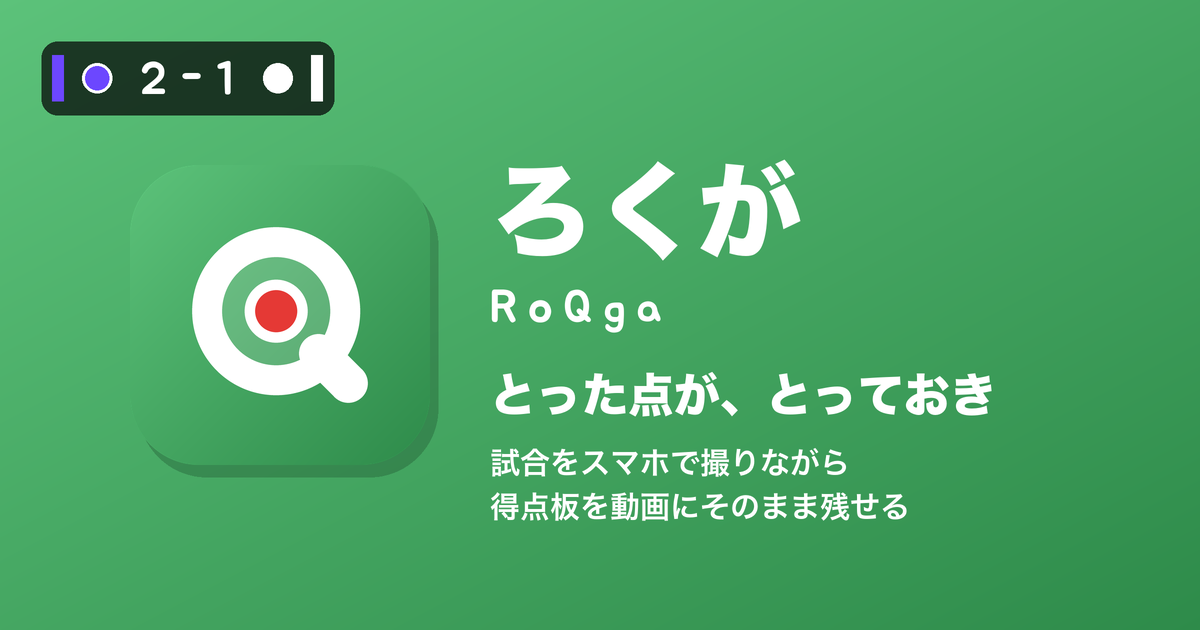
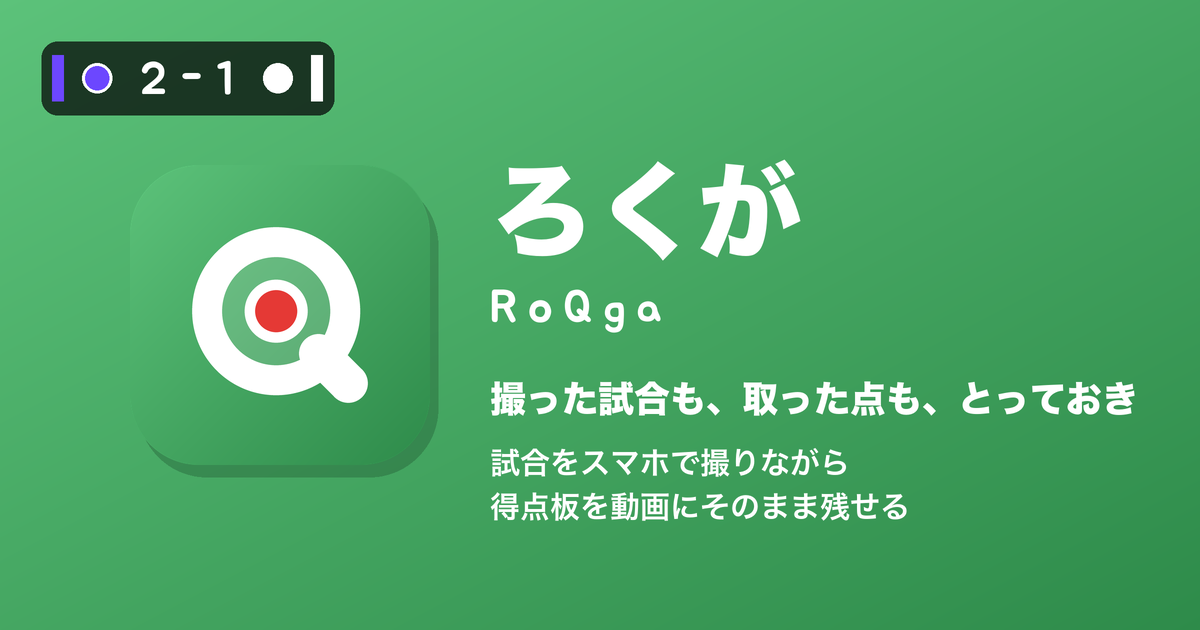
キャッチコピーを「撮った試合も、取った点も、とっておき」に

Changed region(s): [[0.4008, 0.573, 0.9558, 0.6635]]

diff --git a/index.html b/index.html
@@ -11,7 +11,7 @@
 <meta property="og:description" content="試合をスマホで撮りながら、得点板（チーム名とスコア）を動画にそのまま残せます">
 <meta property="og:url" content="https://katsuan.github.io/score-recorder/">
 <meta property="og:locale" content="ja_JP">
-<meta property="og:image" content="https://katsuan.github.io/score-recorder/ogp.png?v=20261021f">
+<meta property="og:image" content="https://katsuan.github.io/score-recorder/ogp.png?v=20261022a">
 <meta property="og:image:width" content="1200">
 <meta property="og:image:height" content="630">
 <meta property="og:image:alt" content="ろくが（RoQga）：試合をスマホで撮りながら、得点板を動画にそのまま残せる">
@@ -24,7 +24,7 @@
 <link rel="manifest" href="manifest.webmanifest">
 <link rel="preconnect" href="https://fonts.googleapis.com">
 <link href="https://fonts.googleapis.com/css2?family=M+PLUS+Rounded+1c:wght@400;700;800&display=swap" rel="stylesheet">
-<link rel="stylesheet" href="style.css?v=202610211459">
+<link rel="stylesheet" href="style.css?v=202610211506">
 </head>
 <body>
 <!-- はじめの画面：チーム名・色を決めて、カメラを開く（さくせん盤で入れたチーム名・色があれば、それを使う） -->
@@ -34,7 +34,7 @@
     <h1><img class="logo" src="icon.svg" alt="" width="28" height="28">ろくが</h1>
     <img class="wordmark" src="logo.svg" alt="RoQga" height="28">
   </div>
-  <p class="copy">とった点が、とっておき</p>
+  <p class="copy">撮った試合も、取った点も、とっておき</p>
   <!-- 2つの使い方：いま撮る（カメラ）／撮っておいた動画に、あとから得点板を付ける。チーム・色・プレビューは共通 -->
   <div class="mode-tabs" role="tablist" aria-label="使い方">
     <button type="button" role="tab" data-mode="shoot" aria-selected="true">📹 撮る</button>
@@ -231,14 +231,14 @@
 </div>
 
 <!-- ろくがの動き：js/ の役ごとのファイル。この順に読む（main.js は全部読んでから、最初の表示） -->
-<script src="js/core.js?v=202610211459"></script>
-<script src="js/draw.js?v=202610211459"></script>
-<script src="js/setup.js?v=202610211459"></script>
-<script src="js/studio.js?v=202610211459"></script>
-<script src="js/record.js?v=202610211459"></script>
-<script src="js/editor.js?v=202610211459"></script>
-<script src="js/render.js?v=202610211459"></script>
-<script src="js/main.js?v=202610211459"></script>
+<script src="js/core.js?v=202610211506"></script>
+<script src="js/draw.js?v=202610211506"></script>
+<script src="js/setup.js?v=202610211506"></script>
+<script src="js/studio.js?v=202610211506"></script>
+<script src="js/record.js?v=202610211506"></script>
+<script src="js/editor.js?v=202610211506"></script>
+<script src="js/render.js?v=202610211506"></script>
+<script src="js/main.js?v=202610211506"></script>
 <!-- おくるんのカードの入口（LIFF ID とカードの URL は line-share の shared/oqrn.js に1か所）と、紹介の窓口 -->
 <script src="https://katsuan.github.io/line-share/shared/oqrn.js"></script>
 <script src="https://katsuan.github.io/line-share/shared/tool-share.js" data-tool="roqga" defer></script>

diff --git a/tools/icon.py b/tools/icon.py
@@ -1,7 +1,7 @@
 #!/usr/bin/env python3
 """ろくが（RoQga）のアイコン・ロゴ・OGP を作る。
 
-名前は「ろくが」（録画）。キャッチコピーは「とった点が、とっておき」（取った点＝ゴールが、とっておき＝撮っておく・取っておきの宝物 のかけことば）。英字は RoQga（おくるん＝OQRN・キロっく＝kiloQ と同じ作り方で、「く」を Q にする）。
+名前は「ろくが」（録画）。キャッチコピーは「撮った試合も、取った点も、とっておき」（撮った試合も、取った点も、どちらも「とっておき」＝撮っておく・取っておきの宝物 のかけことば）。英字は RoQga（おくるん＝OQRN・キロっく＝kiloQ と同じ作り方で、「く」を Q にする）。
 アイコンはおくるんと同じ角の丸い四角に、さくせん盤と同じピッチの緑（さくせん盤の追加アプリなので）。録画のランプだけ赤。
 Q はカメラのレンズの輪：白い輪の真ん中に、録画中の赤いランプ（白い丸の中の赤い点）。Q のしっぽは右下へ、短く太く（細長いと虫めがねに見える）。
 
@@ -78,7 +78,7 @@ def main():
 
     logo, ratio = build_logo(BRAND, SHAPES, C, RING_OUTER)
     (ROOT / "logo.svg").write_text(logo, encoding="utf-8")
-    BRAND.write_ogp(ROOT / "ogp.png", SHAPES, "ろくが", "RoQga", ["試合をスマホで撮りながら", "得点板を動画にそのまま残せる"], scoreboard, copy="とった点が、とっておき")
+    BRAND.write_ogp(ROOT / "ogp.png", SHAPES, "ろくが", "RoQga", ["試合をスマホで撮りながら", "得点板を動画にそのまま残せる"], scoreboard, copy="撮った試合も、取った点も、とっておき")
     print(f"アイコン・logo.svg（高さ 28px なら幅 {28 * ratio:.0f}px）・ogp.png を書き出しました")
 
 

diff --git a/README.md b/README.md
@@ -1,6 +1,6 @@
 # ろくが（RoQga）
 
-試合の動画に、得点板（チーム名とスコア）をそのまま入れて残すツール。名前は「録画」の「く」を Q にした、コネクト〜ConneQt〜の仲間（さくせん盤の追加アプリ）。キャッチコピーは「とった点が、とっておき」。
+試合の動画に、得点板（チーム名とスコア）をそのまま入れて残すツール。名前は「録画」の「く」を Q にした、コネクト〜ConneQt〜の仲間（さくせん盤の追加アプリ）。キャッチコピーは「撮った試合も、取った点も、とっておき」。
 
 公開URL: https://katsuan.github.io/score-recorder/
 
